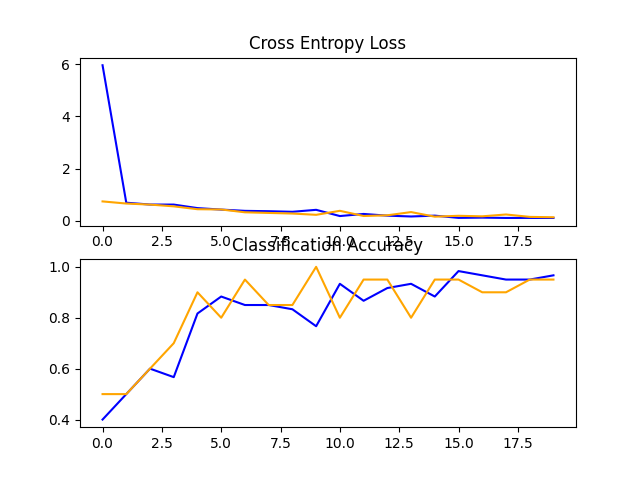
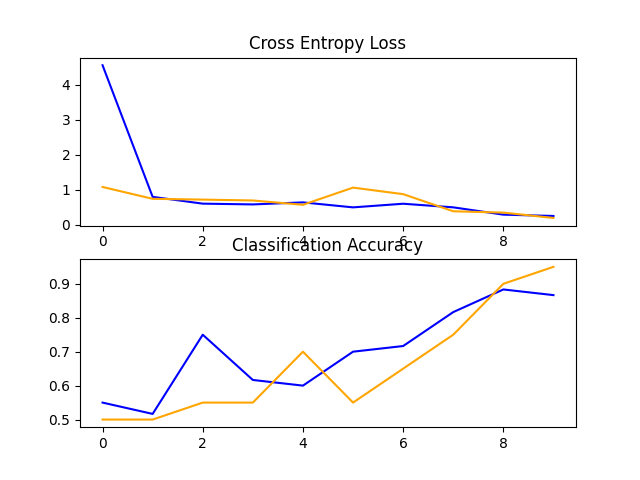
Final

diff --git a/question2.py b/question2.py
@@ -15,73 +15,91 @@ split_at=int(0.7*(iris.shape[0]))
 iris_train=iris.iloc[:split_at,:]
 iris_test=iris.iloc[split_at:,:]
 
-#Nested Cross validation
-#For l1 regularization
-fold=int(len(iris_train)*0.2)
-opt_rg={0:dict(),1:dict(),2:dict(),3:dict(),4:dict()}
-for i in range(5):
-    split_x1=i*fold
-    split_x2=split_x1+fold
-    X_train_1=iris_train.iloc[:split_x1,:-1].append(iris_train.iloc[split_x2:,:-1])
-    y_train_1=iris_train.iloc[:split_x1,-1].append(iris_train.iloc[split_x2:,-1])
-    X_validate=iris_train.iloc[split_x1:split_x2,:-1]
-    y_validate=iris_train.iloc[split_x1:split_x2,-1]
-    max_accuracy=0
-    rg_value=0.01
-    print("\nRound at {} ".format(i))
-    for j in range(1,101):
-        if(j%20==0):
-            print("Going at {} ".format(j),end=" ")
-        model=LogisticRegression()
-        model.fit_autograd(X_train_1,y_train_1,batch_size=10,n_iter=1000,regularise='l1',regularise_value=j*rg_value)
-        y_hat=model.predict(X_validate)
-        score=accuracy(y_hat,y_validate)
-        if(max_accuracy<score):
-            opt_rg[i]["RegularizeValue"]=j*rg_value
-            opt_rg[i]["Accuracy"]=score
-            max_accuracy=score  
-print("For L1 Regularization")                                
-for i in range(len(opt_rg)):
-    print("At fold ={}:\n\tAccuracy={} for Regularize Value={}".format(i,opt_rg[i]["Accuracy"],opt_rg[i]["RegularizeValue"]))
+# Nested Cross validation
+# For l1 regularization
+# fold=int(len(iris_train)*0.2)
+# opt_rg={0:dict(),1:dict(),2:dict(),3:dict(),4:dict()}
+# for i in range(5):
+#     split_x1=i*fold
+#     split_x2=split_x1+fold
+#     X_train_1=iris_train.iloc[:split_x1,:-1].append(iris_train.iloc[split_x2:,:-1])
+#     y_train_1=iris_train.iloc[:split_x1,-1].append(iris_train.iloc[split_x2:,-1])
+#     X_validate=iris_train.iloc[split_x1:split_x2,:-1]
+#     y_validate=iris_train.iloc[split_x1:split_x2,-1]
+#     max_accuracy=0
+#     rg_value=0.01
+#     print("\nRound at {} ".format(i))
+#     for j in range(1,101):
+#         if(j%20==0):
+#             print("Going at {} ".format(j),end=" ")
+#         model=LogisticRegression()
+#         model.fit_autograd(X_train_1,y_train_1,batch_size=10,n_iter=1000,regularise='l1',regularise_value=j*rg_value)
+#         y_hat=model.predict(X_validate)
+#         score=accuracy(y_hat,y_validate)
+#         if(max_accuracy<score):
+#             opt_rg[i]["RegularizeValue"]=j*rg_value
+#             opt_rg[i]["Accuracy"]=score
+#             max_accuracy=score  
+# print("For L1 Regularization")                                
+# for i in range(len(opt_rg)):
+#     print("At fold ={}:\n\tAccuracy={} for Regularize Value={}".format(i,opt_rg[i]["Accuracy"],opt_rg[i]["RegularizeValue"]))
 
 
-#For l2 regularization
-fold=int(len(iris_train)*0.2)
-opt_rg={0:dict(),1:dict(),2:dict(),3:dict(),4:dict()}
-for i in range(5):
-    split_x1=i*fold
-    split_x2=split_x1+fold
-    X_train_1=iris_train.iloc[:split_x1,:-1].append(iris_train.iloc[split_x2:,:-1])
-    y_train_1=iris_train.iloc[:split_x1,-1].append(iris_train.iloc[split_x2:,-1])
-    X_validate=iris_train.iloc[split_x1:split_x2,:-1]
-    y_validate=iris_train.iloc[split_x1:split_x2,-1]
-    max_accuracy=0
-    rg_value=0.01
-    print("\nRound at {} ".format(i))
-    for j in range(1,101):
-        if(j%20==0):
-            print("Going at {} ".format(j),end=" ")
-        model=LogisticRegression()
-        model.fit_autograd(X_train_1,y_train_1,batch_size=10,n_iter=1000,regularise='l2',regularise_value=j*rg_value)
-        y_hat=model.predict(X_validate)
-        score=accuracy(y_hat,y_validate)
-        if(max_accuracy<score):
-            opt_rg[i]["RegularizeValue"]=j*rg_value
-            opt_rg[i]["Accuracy"]=score
-            max_accuracy=score  
-print("For L2 Regularization")                                
-for i in range(len(opt_rg)):
-    print("At fold ={}:\n\tAccuracy={} for Regularize Value={}".format(i,opt_rg[i]["Accuracy"],opt_rg[i]["RegularizeValue"]))
+# #For l2 regularization
+# fold=int(len(iris_train)*0.2)
+# opt_rg={0:dict(),1:dict(),2:dict(),3:dict(),4:dict()}
+# for i in range(5):
+#     split_x1=i*fold
+#     split_x2=split_x1+fold
+#     X_train_1=iris_train.iloc[:split_x1,:-1].append(iris_train.iloc[split_x2:,:-1])
+#     y_train_1=iris_train.iloc[:split_x1,-1].append(iris_train.iloc[split_x2:,-1])
+#     X_validate=iris_train.iloc[split_x1:split_x2,:-1]
+#     y_validate=iris_train.iloc[split_x1:split_x2,-1]
+#     max_accuracy=0
+#     rg_value=0.01
+#     print("\nRound at {} ".format(i))
+#     for j in range(1,101):
+#         if(j%20==0):
+#             print("Going at {} ".format(j),end=" ")
+#         model=LogisticRegression()
+#         model.fit_autograd(X_train_1,y_train_1,batch_size=10,n_iter=1000,regularise='l2',regularise_value=j*rg_value)
+#         y_hat=model.predict(X_validate)
+#         score=accuracy(y_hat,y_validate)
+#         if(max_accuracy<score):
+#             opt_rg[i]["RegularizeValue"]=j*rg_value
+#             opt_rg[i]["Accuracy"]=score
+#             max_accuracy=score  
+# print("For L2 Regularization")                                
+# for i in range(len(opt_rg)):
+#     print("At fold ={}:\n\tAccuracy={} for Regularize Value={}".format(i,opt_rg[i]["Accuracy"],opt_rg[i]["RegularizeValue"]))
 
 
-#For impotance of feature using L1 Regularization
+# #For impotance of feature using L1 Regularization
 X_train=iris.iloc[:split_at,:-1]
 y_train=iris.iloc[:split_at,-1]
 X_test=iris.iloc[split_at:,:-1]
 y_test=iris.iloc[split_at:,-1]
 
-print(len(X_train))
 model=LogisticRegression()
-model.fit_autograd(X_train,y_train,n_iter=1000,batch_size=10,regularise='l1',regularise_value=0.01)
+model.fit_autograd(X_train,y_train,n_iter=2000,batch_size=1,regularise='l1',regularise_value=0.05)
 y_hat=model.predict(X_test)
-print("Accuracy: ",accuracy(y_hat,y_test))
+print("With all Features: ")
+print("Coefficent: {}".format(model._LogisticRegression__coef))
+print("Accuracy:  ",accuracy(y_hat,y_test))
+
+#Removing features to know the importance
+Feature_list=[0,1,2,3]
+for i in range(4):
+    c=Feature_list.copy()
+    c.remove(i)
+    X_train=iris.iloc[:split_at,c]
+    y_train=iris.iloc[:split_at,-1]
+    X_test=iris.iloc[split_at:,c]
+    y_test=iris.iloc[split_at:,-1]
+
+    model=LogisticRegression()
+    model.fit_autograd(X_train,y_train,n_iter=2000,batch_size=1,regularise='l1',regularise_value=0.05)
+    y_hat=model.predict(X_test)
+    print("\nRemoving feature number: {}".format(i+1))
+    print("Coefficent: {}".format(model._LogisticRegression__coef))
+    print("Accuracy:  ",accuracy(y_hat,y_test))

diff --git a/CNN_Classification.py b/CNN_Classification.py
@@ -7,6 +7,9 @@ from keras.layers import Dense
 from keras.layers import Flatten
 from keras.optimizers import SGD
 from keras.preprocessing.image import ImageDataGenerator
+from keras.applications.vgg16 import VGG16
+from keras.models import Model
+
 
 #This is for VGG1
 def define_model_1():
@@ -21,16 +24,19 @@ def define_model_1():
 	model.compile(optimizer=opt, loss='binary_crossentropy', metrics=['accuracy'])
 	return model
 
-#This is for VGG2
+#This is for Transfer Learning
 def define_model_2():
-	model = Sequential()
-	model.add(Conv2D(32, (3, 3), activation='relu', kernel_initializer='he_uniform', padding='same', input_shape=(200, 200, 3)))
-	model.add(MaxPooling2D((2, 2)))
-	model.add(Conv2D(64, (3, 3), activation='relu', kernel_initializer='he_uniform', padding='same'))
-	model.add(MaxPooling2D((2, 2)))
-	model.add(Flatten())
-	model.add(Dense(128, activation='relu', kernel_initializer='he_uniform'))
-	model.add(Dense(1, activation='sigmoid'))
+	# load model
+	model = VGG16(include_top=False, input_shape=(200, 200, 3))
+	# mark loaded layers as not trainable
+	for layer in model.layers:
+		layer.trainable = False
+	# add new classifier layers
+	flat1 = Flatten()(model.layers[-1].output)
+	class1 = Dense(128, activation='relu', kernel_initializer='he_uniform')(flat1)
+	output = Dense(1, activation='sigmoid')(class1)
+	# define new model
+	model = Model(inputs=model.inputs, outputs=output)
 	# compile model
 	opt = SGD(lr=0.001, momentum=0.9)
 	model.compile(optimizer=opt, loss='binary_crossentropy', metrics=['accuracy'])
@@ -53,8 +59,8 @@ def summarize_diagnostics(history,file_name):
 	pyplot.close()
     
  
-# run the test harness for evaluating a model
-def run_test_harness(model_p, f_name):
+# run the test harness for evaluating a model VGG
+def run_test_NOaug(model_p, f_name):
 	# define model
 	model = model_p()
 	# create data generator
@@ -66,12 +72,57 @@ def run_test_harness(model_p, f_name):
 		class_mode='binary', target_size=(200, 200))
 	# fit model
 	history = model.fit(train_it, steps_per_epoch=len(train_it),
-		validation_data=test_it, validation_steps=len(test_it), epochs=20, verbose=0)
+		validation_data=test_it, validation_steps=len(test_it), epochs=10, verbose=0)
 	# evaluate model
 	_, acc = model.evaluate(test_it, steps=len(test_it), verbose=0)
 	print('> %.3f' % (acc * 100.0))
 	# learning curves
 	summarize_diagnostics(history,f_name)
 
-run_test_harness(define_model_1,'VGG1')
-run_test_harness(define_model_2,'VGG2')
+def run_test_WithAug(model_a,f_name):
+	# define model
+	model = model_a()
+	# create data generators
+	train_datagen = ImageDataGenerator(rescale=1.0/255.0,
+		width_shift_range=0.1, height_shift_range=0.1, horizontal_flip=True)
+	test_datagen = ImageDataGenerator(rescale=1.0/255.0)
+	# prepare iterators
+	train_it = train_datagen.flow_from_directory('Images/Train/',
+		class_mode='binary', batch_size=64, target_size=(200, 200))
+	test_it = test_datagen.flow_from_directory('Images/Test/',
+		class_mode='binary', batch_size=64, target_size=(200, 200))
+	# fit model
+	history = model.fit_generator(train_it, steps_per_epoch=len(train_it),
+		validation_data=test_it, validation_steps=len(test_it), epochs=50, verbose=0)
+	# evaluate model
+	_, acc = model.evaluate_generator(test_it, steps=len(test_it), verbose=0)
+	print('> %.3f' % (acc * 100.0))
+	# learning curves
+	summarize_diagnostics(history,f_name)
+
+
+#With Data augmentation
+def run_test_Transfer(model_x,f_name):
+	# define model
+	model = model_x()
+	# create data generator
+	datagen = ImageDataGenerator(featurewise_center=True)
+	# specify imagenet mean values for centering
+	datagen.mean = [123.68, 116.779, 103.939]
+	# prepare iterator
+	train_it = datagen.flow_from_directory('Images/Train/',
+		class_mode='binary',  target_size=(200, 200))
+	test_it = datagen.flow_from_directory('Images/Test/',
+		class_mode='binary', target_size=(200, 200))
+	# fit model
+	history = model.fit_generator(train_it, steps_per_epoch=len(train_it),
+		validation_data=test_it, validation_steps=len(test_it), epochs=10, verbose=1)
+	# evaluate model
+	_, acc = model.evaluate_generator(test_it, steps=len(test_it), verbose=0)
+	print('> %.3f' % (acc * 100.0))
+	# learning curves
+	summarize_diagnostics(history,f_name)
+
+run_test_NOaug(define_model_1,'VGG1')
+run_test_WithAug(define_model_1,'VGG_with_Aug')
+run_test_Transfer(define_model_2,'Transfer')

diff --git a/question2b.py b/question2b.py
@@ -1,0 +1,40 @@
+from LogisticRegression.LogisticRegression import LogisticRegression
+import pandas as pd
+import numpy as np
+import matplotlib.pyplot as plt
+#Here we the set the value of seed so that the mixing is always same 
+np.random.seed(42)
+da=pd.read_csv('iris.csv')
+label=np.array(da["species"])
+label=np.where(label=="virginica",1,0)
+iris=da.iloc[:,:-1]
+iris["Truth"]=label
+iris=iris.sample(frac=1).reset_index(drop=True)
+split_at=int(0.7*(iris.shape[0]))
+X_train=iris.iloc[:split_at,:-1]
+y_train=iris.iloc[:split_at,-1]
+
+# x_axis=list(range(1,101))
+x_axis=[0.01*i for i in range(1,101)]
+y_axis=list()
+#For l1 regularization
+rg_value=0.01
+for j in range(1,101):
+    if(j%20==0):
+        print("Going at {} ".format(j))
+    model=LogisticRegression()
+    model.fit_autograd(X_train,y_train,batch_size=1,n_iter=2000,regularise='l1',regularise_value=j*rg_value)
+    y_axis.append(np.abs(model._LogisticRegression__coef)) 
+y_axis=np.array(y_axis)    
+print("For L1 Regularization")        
+for i in range(y_axis.shape[1]):
+    plt.plot(x_axis,list(y_axis[:,i]),label=("Coef_"+str(i)))
+plt.xlabel("Regularize value")
+plt.ylabel("Magnitude of coefficent")    
+plt.legend()
+plt.savefig('q2.png')
+plt.show()
+
+
+    
+

diff --git a/Question2.md b/Question2.md
@@ -31,22 +31,35 @@
             Accuracy=0.9523809523809523 for Regularize Value=0.06
         
 
-
 3. **Undersatnding Feature Imporatnce**
 
-    > For batch size=10 and iteration =1000 for L1 regularization the results are: 
+    > With all Features:
 
-        >   Coefficent: [ 0.36142426 -0.95850064 -0.46258305  0.95415171  1.29136658] 
-            Accuracy:   0.9666666666666667
+        Coefficent: [ 0.51057262 -0.8012236  -0.27165435  0.71975595  1.09305966]
+        Accuracy:   0.9777777777777777
 
-    > Now by removing feature with coefficent=1.291     
+    > Removing feature number: 1
 
-        >   Coefficent: [ 0.34566245 -0.89190234 -0.51768293  1.34452634]
-            Accuracy:   0.9
+        Coefficent: [-0.14778477 -1.63033358  0.50551009  1.44932395]
+        Accuracy:   0.9777777777777777
 
-    > Now by removing feature with coefficent=-0.46
+    > Removing feature number: 2
 
-        >   Coefficent: [ 0.31870442 -1.14394444  0.93094037  1.2900311 ]
-            Accuracy:   0.9333333333333333   
+        Coefficent: [ 0.01362948 -1.40893054  1.27113745  1.52679566]
+        Accuracy:   0.9777777777777777
 
+    > Removing feature number: 3
+
+        Coefficent: [ 0.08445059 -0.29475109 -0.78665778  2.36794399]
+        Accuracy:   0.9555555555555556
+
+    > Removing feature number: 4
+    
+        Coefficent: [ 0.04762133 -1.10093689 -0.64476671  1.77144502]
+        Accuracy:   0.9555555555555556  
+    
+    > The graph of Coefficents vs Lambda value is: 
+
+    >!['L1 Graph'](q2.png)
+    
     > **Here we can see the Feature importance by the value of coefficent. The less important feature would be close to Zero.**        

diff --git a/Question7.md b/Question7.md
@@ -6,6 +6,10 @@
 
     >!['VGG1'](VGG1_plot.png)
 
-2. **VGG2 graph:**
+2. **VGG1 graph with Data Augmentation:**
 
-    >!['VGG2'](VGG2_plot.png)
+    >!['VGG2'](VGG_with_Aug_plot.png)
+
+3. **Transfer Learning:**
+
+    >!['Transfer'](Transfer_plot.png)
